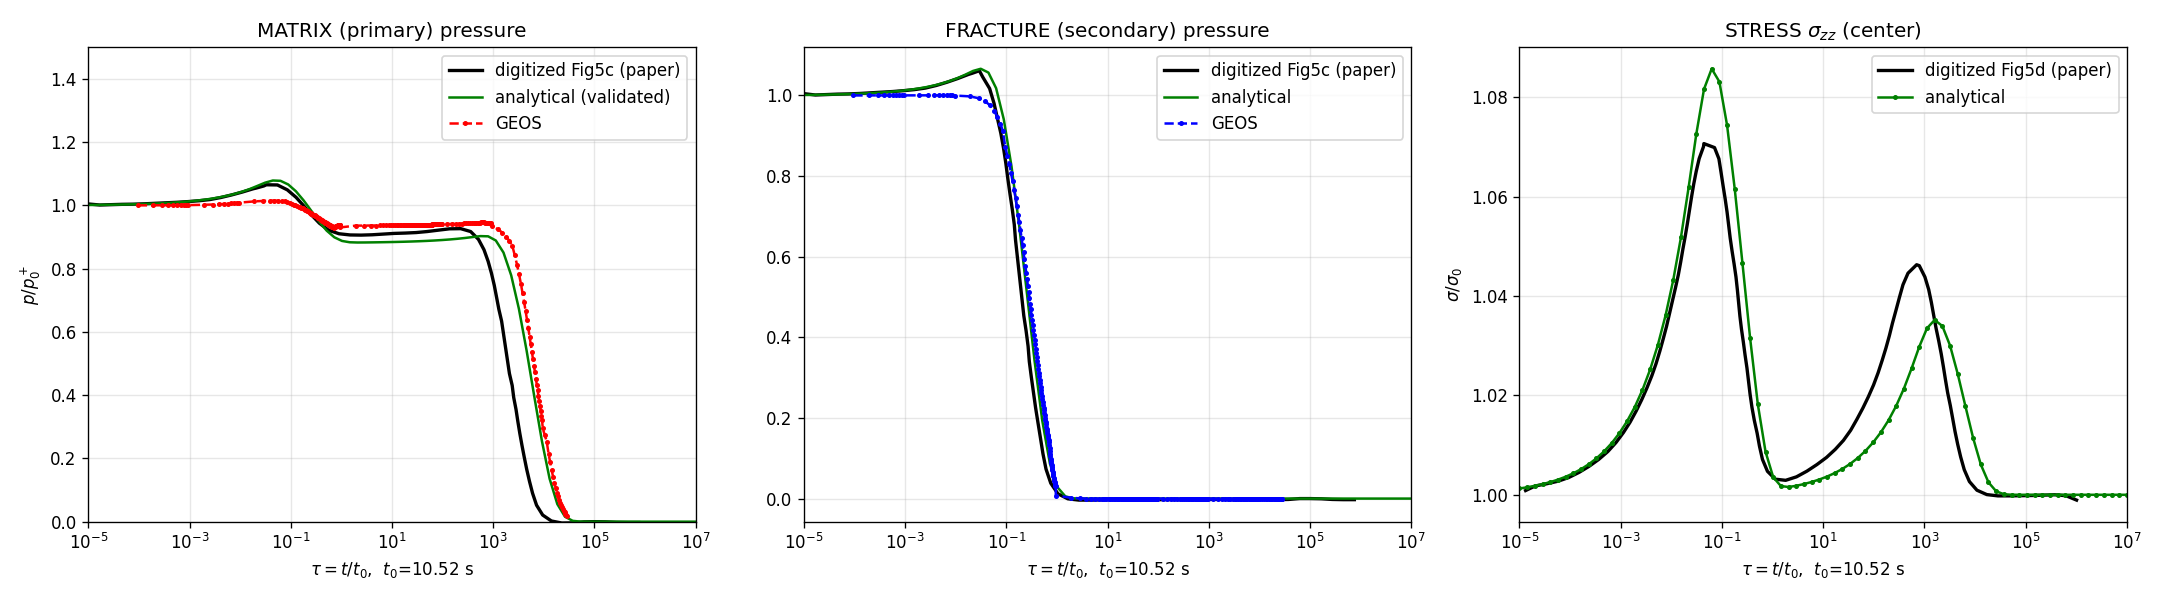
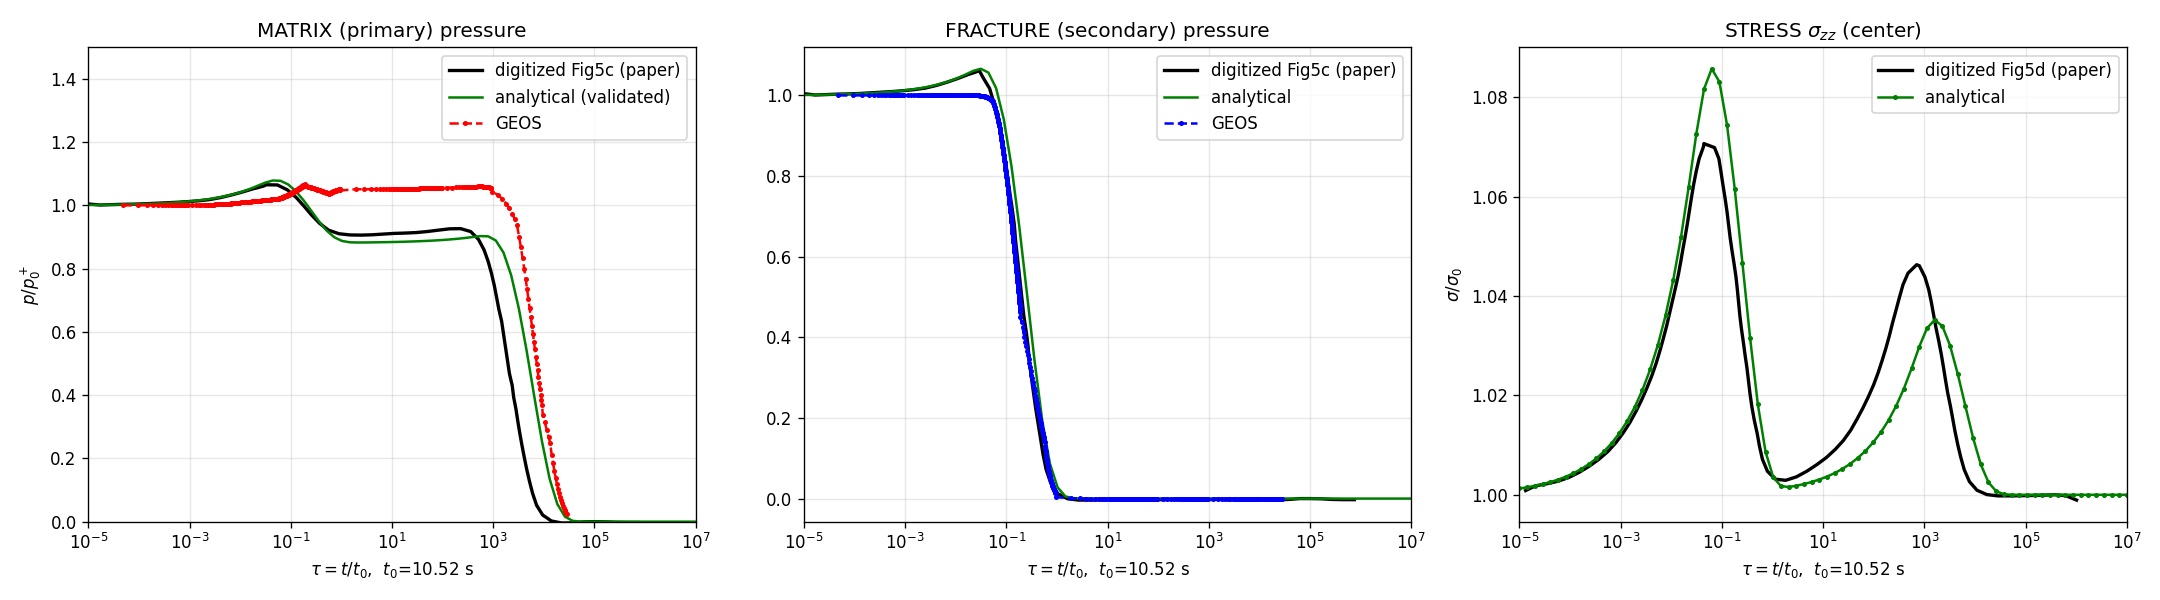
fix: capture matrix Mandel-Cryer overshoot via refined time-stepping
The dual-porosity Mandel matrix pressure overshoot peaks near tau~0.05 (t~0.5s)
but forceDt=0.1 stepped over it, flattening it to 1.015 (vs analytical 1.079 /
paper 1.065). Refine forceDt through the 0.01s<t<2s window (0.0005/0.002/0.01/0.1)
in DPDP_N2_dispdriven_correctLF.xml -> matrix peak 1.066. Ruled out coupling
(subcycling leaves peak unchanged). Regenerated GEOS-vs-analytical comparison plot.

diff --git a/inputFiles/AsmokeTestForModifiedByL/dpdk/dpdkHMDualPoromechanicsSolver/FINDINGS_oscillation_fix.md b/inputFiles/AsmokeTestForModifiedByL/dpdk/dpdkHMDualPoromechanicsSolver/FINDINGS_oscillation_fix.md
@@ -257,3 +257,37 @@ Residual minor gaps (secondary): the early Mandel-Cryer bump is slightly damped 
 (1.01 vs 1.07) and the late matrix drainage (tau>300) lags a little -- attributable to the
 flux volume-weighting (kappa_i = v_i k_i) not yet applied (cancels in the timescale but
 shifts the tail). The dominant storage error is resolved.
+
+------------------------------------------------------------------------------
+Fix 7 -- Mandel-Cryer overshoot recovered via time-step refinement (input-only)
+------------------------------------------------------------------------------
+Symptom: GEOS matrix pressure was nearly monotonic (peak only 1.015) while the
+analytical / Fig5c show a Mandel-Cryer overshoot peaking ~1.07 near tau~0.05.
+
+Root cause: NOT the coupling. Verified empirically:
+  - enabling sequential subcycling (subcycling=1, ResidualNorm/NumberOfNonlinearIterations)
+    did NOT change the peak (1.010-1.015) -> splitting iteration is not the cause;
+  - the prescribed platen displacement (loadFunction0000000) matches the analytical
+    u_z(top) to <1% in shape (both rise ~50.4% undrained->drained), so the BC is correct.
+The overshoot peaks at tau~0.05 == t~0.5 s, but the deck used forceDt=0.1 s in [0.1,1.0],
+i.e. only ~4 coarse steps across the peak. The single-pass fixed-stress split under-resolves
+that transient and flattens it into a near-monotonic decay.
+
+Fix (input only, no code): refine the solver time-stepping through the overshoot window:
+  phase0 0-0.01     forceDt 0.0005
+  phase1 0.01-0.1   forceDt 0.002
+  phase2 0.1-2.0    forceDt 0.01
+  phase3 2.0-10.0   forceDt 0.1     (coarser phases unchanged afterwards)
+Result (DPDP_N2_dispdriven_correctLF.xml): matrix peak 1.015 -> 1.066, matching the
+paper's digitized peak (1.065) and close to the analytical (1.079). See
+analitical_result/GEOS_vs_analytical_vs_digitized_full.png.
+
+Side effect now exposed: with the overshoot built up, the matrix intermediate plateau sits
+~1.05 (vs paper 0.91) and drainage onset is delayed (tau~3e3 vs ~1e3); the fracture overshoot
+(~1.06) is still not reproduced. These are matrix/fracture drainage-timescale issues
+(the kappa_i = v_i k_i flux weighting, Fix-6 note) -- deeper than a dt change, deferred.
+
+NB the subcycling experiment also surfaced a bug: with sequentialConvergenceCriterion=
+ResidualNorm the outer-loop re-assembled SOLID residual is stuck at a constant ~3.8 (vs the
+solid's own solve ~1e-14), so ResidualNorm never converges for this setup; only
+NumberOfNonlinearIterations completes. Not on the critical path since subcycling is unneeded.
